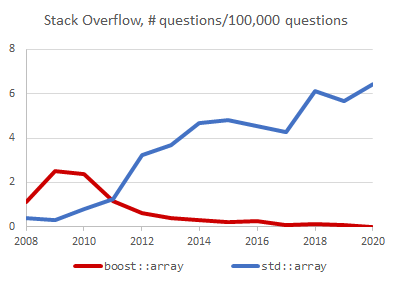
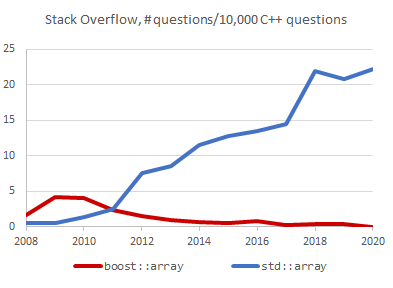
weighed report figures by # of SO C++ questions

diff --git a/boost_vs_std.md b/boost_vs_std.md
@@ -4,7 +4,7 @@ As a crude way to assess how the importance of certain Boost libraries have vari
 among the public with the introduction of equivalent components in the C++ standard, we have issued
 Stack Overflow search queries of the form <code>"boost::X"&nbsp;created:YYYY</code> and
 <code>"std::X"&nbsp;created:YYYY</code> for `YYYY` in 2008-2020. The tables below show
-the number of results per annual 100,000 Stack Overflow questions. Results for the current
+the number of results per annual 10,000 Stack Overflow C++-related questions. Results for the current
 year 2020 include questions up to May 17. In the case of
 **Boost.MPL**, which does not have a proper standard library replacement in C++11, we compare
 with **Boost.Mp11**.
